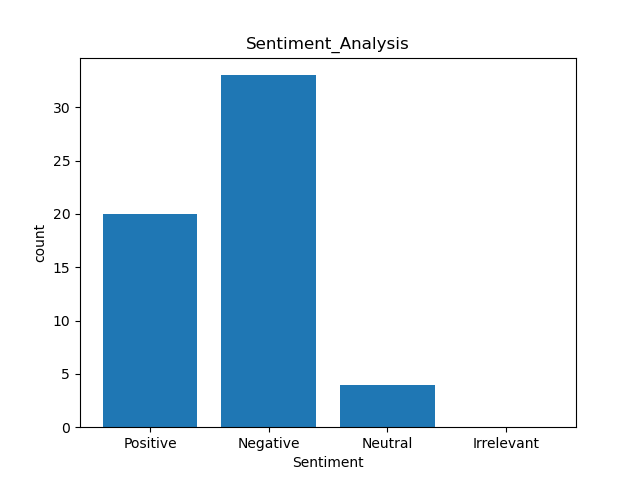
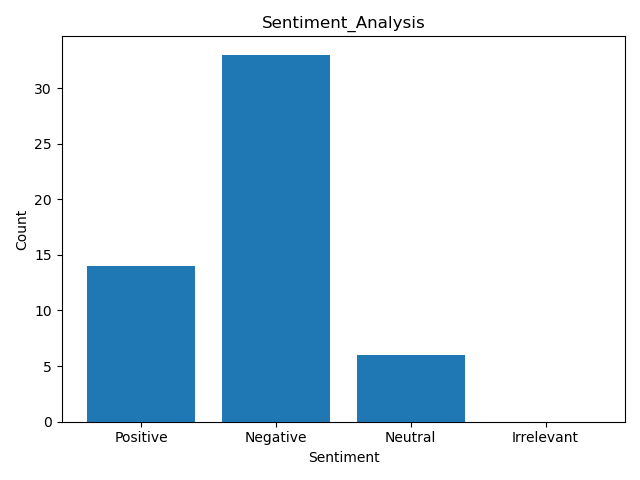
update review file

diff --git a/label.py b/label.py
@@ -1,16 +1,16 @@
 from openai import OpenAI
 
 client = OpenAI()
-new_list = []
+
 
 def get_sentiment(text: list) -> list:
     
     """
     This function will interface with the gpt-4o-mini language model.
 
-    Args : list of string reviews
+    Args : list of string reviews, text
         
-    Returns : list of sentiment
+    Returns : list of sentiments
     
     """
 
@@ -23,16 +23,20 @@ def get_sentiment(text: list) -> list:
     
     
     system_prompt = """
-    You are an expert in interpreting human sentiment across cultures.
+    You are an expert in interpreting human sentiments across cultures.
     """
 
     prompt = f"""
-    For each line of text in the string below, please categorize the review
-    as either positive, neutral, negative, or irrelevant.
+    please categorize the review as either positive, neutral, negative, or irrelevant.
 
-    Use only a one-word response per line. Do not include any numbers.
-    {text}
+    Use only a one-word response for each line. Do not include any numbers.
+    Return exactly {len(text)} labels, one per review.
+    Do NOT split reviews into multiple items, even if they contain multiple opinions.
+    Only return one sentiment per line. No numbers. No extra text.
+    Some reviews may contain HTML tags like <br> or <br /> — treat these as part of a single review.
+    Return exactly one sentiment label per review line, even if the review contains multiple sentences or HTML tags.{text}
     """
+    
     completion = client.chat.completions.create(
     model="gpt-4o-mini",
     messages=[

diff --git a/visualize.py b/visualize.py
@@ -5,40 +5,34 @@ def make_plot(sentiments: list) -> list:
     """
     Function to plot how frequent different sentiment occurs.
 
-    Args : list of sentiments. eg, ['positive','negative','neutral']
+    Args : list of sentiments.
 
-    Return : list of each sentiment occured. eg,[30,9,0]
+    Return : list of each sentiment occured.
 
     """
     
-    pos = 0
-    neg = 0
-    neu = 0
-    irr = 0
+    sentiment_counts = [0,0,0,0]
 
     for items in sentiments:
         if items == "positive":
-            pos += 1
+            sentiment_counts[0] += 1
         elif items == 'negative':
-            neg += 1
+            sentiment_counts[1] += 1
         elif items == 'neutral':
-            neu += 1
+            sentiment_counts[2] += 1
         else:
-            irr += 1
+            sentiment_counts[3] += 1
     
     fig,ax = plt.subplots()
     ax.set_title("Sentiment_Analysis")
     ax.set_xlabel("Sentiment")
-    ax.set_ylabel("count")
-    ax.bar(["Positive","Negative","Neutral","Irrelevant"],[pos, neg, neu, irr])
-    fig.savefig("/Users/lubna/Documents/TKH_Labs/review-process/images/sentiment_analysis.png")
+    ax.set_ylabel("Count")
+    ax.bar(["Positive","Negative","Neutral","Irrelevant"],sentiment_counts)
+
+    plt.tight_layout()
+    fig.savefig("images/sentiment_analysis.png")
 
 
-    return [pos, neg, neu, irr]
-
-
-
-
-
+    return sentiment_counts
 
 

diff --git a/main.py b/main.py
@@ -6,15 +6,16 @@ import json
 
 def run(filepath: str):
     """
-    Function to extract the reviews from json file  
-    Args : filepath
+    Function reads input data from json file to generate sentiments and plot sentiments ratio.
+
+    Args : filepath.
+    
     Return: the list of sentiments you've generated from your OpenAI API.
     """
     
     with open (filepath) as j:
         data = json.load(j)
         
-    data['results']
 
     # get a list of sentiments for each line using get_sentiment
     final_result = get_sentiment(data['results'])
@@ -23,7 +24,7 @@ def run(filepath: str):
     make_plot(final_result)
 
 
-    return(final_result)
+    return final_result
 
 
 if __name__ == "__main__":

diff --git a/README.md b/README.md
@@ -1,41 +1,24 @@
-# Review Processing
+# Sentiment Analysis TLAB — Zico Reviews
 
-You are a growth analyst at a Vancouver-based consulting firm called [Bernardino Group](https://en.wikipedia.org/wiki/Bernardino_of_Siena#:~:text=Saint%20Bernardino%20is%20the%20Roman,problems%20involving%20the%20chest%20area.). Your manager is spear-heading the completion of a new analytical tool which will automatically label if a review is positive, neutral, negative, or irrelevant (aka [sentiment](https://en.wikipedia.org/wiki/Sentiment_analysis)). The release schedule for this product is ambitious as your company would like to be able to advertise this service to potential clients as soon as possible. You will be kicking off the completion of this first milestone by independently implementing a minimal-viable product. This will be a Python pipeline that ingests review data and interfaces with the Open AI API to automatically label each review.
 
-For example, if you were checking the reviews for a wearable ring from SengLinks that tracks heart rate, the following would be examples of the mentioned sentiment:
-* positive: *I love this ring, I use it all the time when working out.*
-* neutral: *It's an ok ring. Some features could be better but for the price it's fine.*
-* negative: *Absolutely terrible ring. The green light that the ring emitted kept attracting mosquitos.*
-* irrelevant: *I like strawberry ice cream because its the best.* 
+Welcome to my TLAB submission for sentiment analysis using the OpenAI API! This project walks through extracting product reviews, analyzing sentiment, and visualizing the results, all built as part of our TLAB assignment.
 
-You are tasked with creating a minimal pipeline that reads a JSON file of reviews and generates an output file that contains one of these sentiment labels for each respective review.
+### Datasets
+Your company has provided you with a sample of real-world reviews that they've received from customers from 1999-2012 on coconut water. These reviews are listed in the JSON file labeled `reviews.json`.
+Your company has also provided you an API key to interface with this API. 
 
-For example, if your input file contains the following array of reviews:
-```
-[
- "this ring smells weird, don't recomend",
- "I love this ring, I use it all the time when working out.",
- "I will never buy another brand again, I love this ring",
- "It's an ok ring. Some features could be better but for the price its fine.",
- "its a ring",
- "Bought this ring and it came broken. rip-off."
-]
-```
+### Objective
 
-Your program would output the following list of labels:
-```
-["negative", "positive", "positive", "neutral", "irrelevant", "negative"]
-```
+The goal of this project was to:
 
-Your company has provided you with a sample of real-world reviews that they've received from customers from 1999-2012 on coconut water. These reviews are listed in the JSON file labeled `reviews.json`
+Load a set of product reviews from a JSON file.
+Use the OpenAI GPT-4o API to classify each review's sentiment.
+Plot the distribution of sentiments (positive, negative, neutral, irrelevant).
+Practice modular function design and AI prompt engineering.
 
-Your company has also provided you an API key **(which you must keep secret)** to interface with this API. You will again utilize test-driven development to complete this project.
 
-**Note** To limit cost anomalies throughout this project, we've set up API restrictions that limit the entire data science cohort to 1500 requests-per-day, 100 requests-per-minute, and 40,000 tokens-per-minute. If you encounter a `429` error when you run your code, this could either mean that your prompt is over the allotted 40,000 tokens or there have been too many requests within the same minute. Please read the section titled **API Limitations** to find out how to work around these limitations.
 
-## Instructions
-
-### Setup
+### How to Run
 
 To work on this project you must first configure your `ds` conda environment by following the listed steps below. By the end of these steps, you will have a functioning environment that contains your hidden API key. Please follow these instructions closely or your project will not function correctly.
 
@@ -63,110 +46,34 @@ conda activate ds
 pip install openai
 ```
 
-6) Run the `test_package.py` module to check if your openai package is functioning correctly.
-```bash
-python test_package.py
-```
-
-You should see your terminal output `SUCCESS!`. 
 
 These instructions have been based off of documentation from the [OpenAI API](https://platform.openai.com/docs/libraries?desktop-os=windows&language=python). 
 
-There are three Python files and one markdown file which you will modify in this repository to complete this project:
-* cleaner.py
-* metrics.py
-* main.py
-* writeup.md
 
-The files with the prefix test_ (i.e. test_package.py, test_label.py, test_visualize.py, and test_run.py) are intended for you to test your code to ensure that all project requirements are complete. Do not modify the code in these files. Otherwise, you will not be able to check that your code is functioning correctly.
+label.py module contains a function that you will implement to interface with the `gpt-4o-mini` language model. It will take in a list of string reviews, and pass this list to the open ai API via the `chat.completions.create()` method.
 
-Lastly, remove any **ellipses** or **pass** keywords that you come across in your code. These are placeholder values.
 
-### label.py
+## Challenges Faced
 
-This module contains a function that you will implement to interface with the `gpt-4o-mini` language model. It will take in a list of string reviews, and pass this list to the open ai API via the `chat.completions.create()` method.
+My bar charts seemed to show more than 50 sentiments even though the input only contained 50 reviews. This was due to the model sometimes returning more than one label per review or appending extra lines. Even after refining the prompt in multiple ways, the output count varied (e.g., 52, 54, or 60 labels), which required additional cleanup and stricter output formatting to correct.
 
-While the `prompt` variable has been created for you, you will generate your own `system_prompt` which will influence the large-language-models output. Use the following [guide](https://platform.openai.com/docs/guides/prompt-engineering) to determine your system prompt. Some general tips from this guide include:
-* Provide examples to help the model generate correct labels
-* Provide helpful context-setting (e.g. "You are an expert in interpreting human sentiment across cultures.")
+## Next Steps
 
-Since this prompt will most likely be a multi-line string, we recommend using triple-quoted strings to generate this prompt.
+Explore line by line sentiment classification by sending each review individually to the API to ensure one response per input.
+Add a validation step that compares the number of outputs with the number of inputs and flags inconsistencies.
+Pre-clean reviews to strip any HTML tags or formatting that may confuse the model (e.g., <br> tags).
+Improve prompt engineering further to reinforce structure and response limits. This was due to the model sometimes returning more than one label per review or appending extra lines. Even after refining the prompt in multiple ways, the output count varied (e.g., 52, 54, or 60 labels), which required additional cleanup and stricter output formatting to correct.
 
-This function will return the output of the large language model expressed as a list of sentiments with no extraneous blank lines (ex: `["positive", "positive", "negative", ...]`)
 
-However, this function should return a string that states `"Wrong input. text must be an array of strings."` if an empty list is provided or if a list containing incorrect data-types is passed. 
+## Conclusion
 
-To test this module, open a terminal in VSCode. Go to the Terminal tab in the top menu and select "New Terminal." Then run the following command:
 
-```
-python test_label.py
-```
+Based on sentiment analysis of 50 customer reviews using the OpenAI GPT-4o model, the majority of feedback was negative, with approximately 35 out of 50 reviews falling into this category. The most common criticism focused on the product's taste, which many customers described as unpleasant or inferior compared to other brands.
 
-We recommend working on this module **first**. Be sure to write up a docstring when you've completed this function!
+Although the model provided generally accurate classifications, there were some mislabelings, indicating that automated sentiment analysis can benefit from manual review or prompt refinement to improve reliability.
 
-**Note**: You are limited to working with the `gpt-4o-mini` model. If you utilize any other model, your API call will not function correctly.
+Overall, the insights from this analysis suggest a clear opportunity for product improvement. Reformulating the drink to enhance flavor or offering new flavored variants could significantly increase customer satisfaction and loyalty. Addressing these concerns could also help the company better compete in a crowded market and avoid further reputational damage from recurring negative feedback.
 
-### visualize.py
 
-This module contains a function that you will implement to count how many times each sentiment (`positive`, `neutral`, `negative`, and `irrelevant`) appears, which you will then plot as an appropriate data visualization. Be sure to save this image into the folder titled `images/`. Look back to your notes to determine which plot you should use for this analysis.
 
-This function is not required to return any values. Be sure to complete the docstring for this function as well.
-
-To test this module, run the following command in your terminal:
-
-```
-python test_visualize.py
-```
-
-**Note**: Ensure that any images this function generates are saved within the `images/` folder.
-
-### main.py
-
-This module will utilize all the functions you've written to run a comprehensive pipeline in one function named `run()`. Note that your initial data is a `JSON` object, so you must determine the appropriate file i/o and dictionary operations to access the list of reviews within this object.
-
-This function will return the list of sentiments you've generated from your OpenAI API call.
-
-To test this module on your available data files, you will run the following command in your terminal:
-
-```
-python test_run.py
-```
-
-### writeup.md
-
-This file contains 3 analytical questions you will answer based on the visualizations your code generates.
-
-## API Limitations
-
-As each API call entails a cost based on token size, we've limited the number of tokens that our project can process in one minute, as well as the number of requests that we can make in one minute as well as in one day.
-
-If you are encountering a `429` error, read the error message carefully to determine which next actions you should take. If your error message mentions:
-
-**Tokens-Per-Minute (TPM) (40,000 limit)**
-
-Then you should:
-* Potentially modify your system prompt so that your input string size is greatly less than 40,000 tokens and the output token size is minimal (50 tokens).
-* Wait one minute for the token "budget" to reset as too many users are making large token submissions at once
-
-**Requests-Per-Minute (RPM) (100 limit)**
-
-Then you should:
-* Wait one minute for the request "budget" to reset as too many users are making requests
-
-**Requests-Per-Day (RPD) (1500 limit)**
-
-Then you should:
-* Wait till the next day for the request "budget" to reset as we've hit the limit for requests for the day.
-
-Most importantly, this should motivate you to **only run tests when needed**. Do not make API calls unless you've ensured that all proper parameters are in place for you to receive a meaningful response from OpenAI. 
-
-## Submission 
-
-The due date for this project is `04/21`.
-
-To begin work on this project, you will download this template code and push it to your GitHub repository. 
-
-Be sure to test as you code in order to verify that your functions are working correctly. If you see that all of your tests are evaluating to a green check-mark (✅) for a specific module, that means your code is ready to go, and you can move on to the next challenge.
-
-To submit this project, you will submit a link to your completed GitHub repository to Canvas.
 

diff --git a/writeup.md b/writeup.md
@@ -2,7 +2,7 @@
 
 What is the most common sentiment observed in your sample of 50 reviews according to your OpenAI labeled data?
 
-The most common sentiment observed in your sample of 50 reviews according to OpenAI labeled data is negative.
+The most common sentiment observed in your sample of 50 reviews according to OpenAI labeled data is negative.From the gragh plotted, negative sendiments is ~35.
 
 
 ## Question 2
